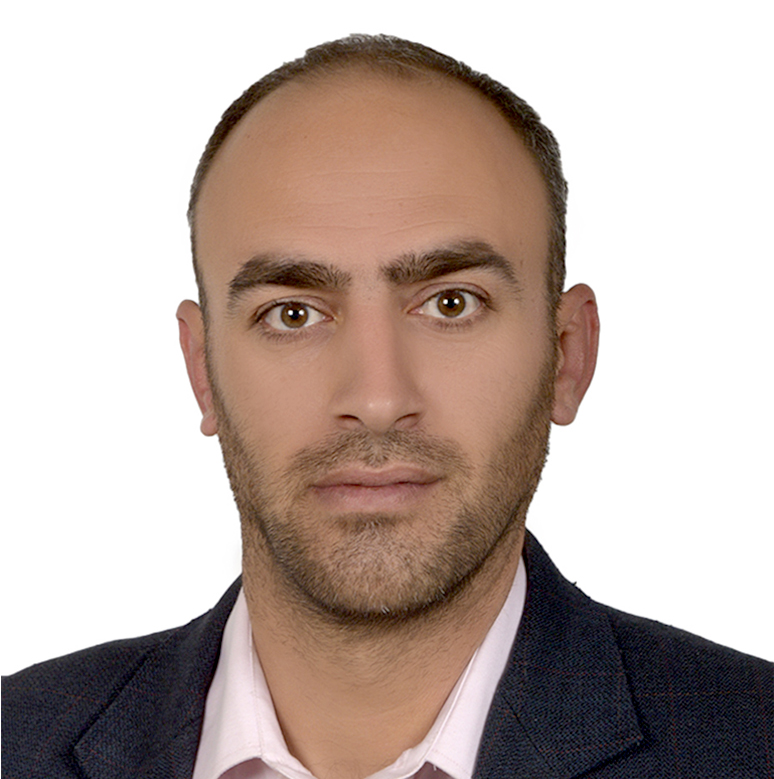
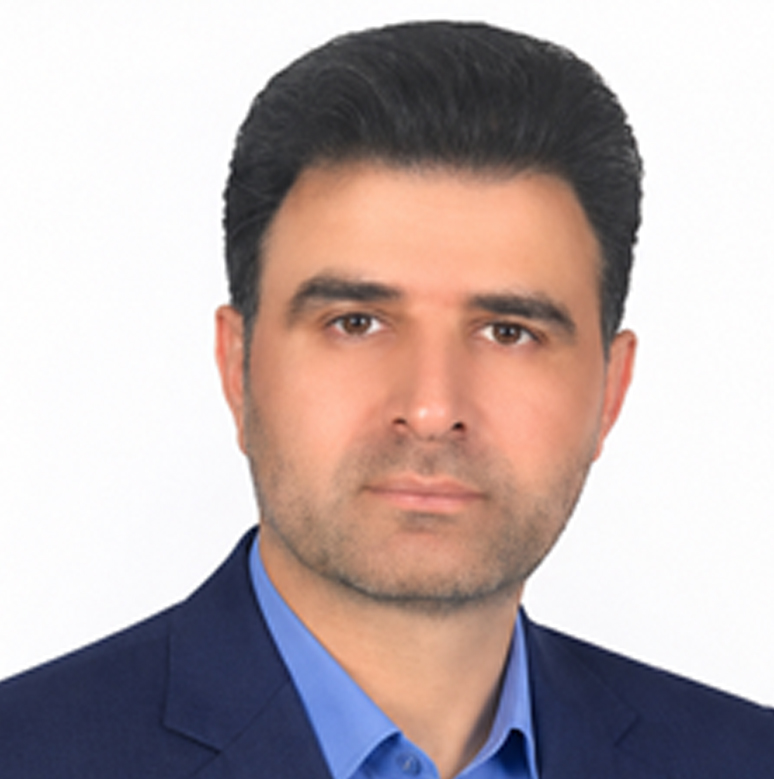
Add files via upload

diff --git a/card2.html b/card2.html
@@ -663,9 +663,9 @@ img.qrcode-img-front[_ngcontent-llw-c127] {
     background-position: center" src="Pic2.jpg">
 
 
-<div _ngcontent-llw-c127="" class="print-content"><label _ngcontent-llw-c127="" style="margin-bottom: 3px;">محمدامین عابدی</label><label _ngcontent-llw-c127="">2291913816</label><label _ngcontent-llw-c127="">1010294185</label><label _ngcontent-llw-c127="">عمران</label><label _ngcontent-llw-c127="">1396/09/15</label><label _ngcontent-llw-c127="">0103093167</label></div><label _ngcontent-llw-c127="" class="back-validity-date">1407/12/29</label><!----><!----></div>
+<div _ngcontent-llw-c127="" class="print-content"><label _ngcontent-llw-c127="" style="margin-bottom: 3px;">محمد صادقی خلیلانی</label><label _ngcontent-llw-c127="">3256467180</label><label _ngcontent-llw-c127="">1010294185</label><label _ngcontent-llw-c127="">عمران</label><label _ngcontent-llw-c127="">1389/09/15</label><label _ngcontent-llw-c127="">0103093167</label></div><label _ngcontent-llw-c127="" class="back-validity-date">1407/12/29</label><!----><!----></div>
 
-<div _ngcontent-llw-c127="" class="print-preview-image preview-back"><img _ngcontent-llw-c127="" src="membership-card-watermark-back.png" style="width: 100%;"><label _ngcontent-llw-c127="" class="back-full-name" style="margin-bottom: 300px;">MOHAMMADAMIN ABEDI</label><label _ngcontent-llw-c127="" class="back-national">2291913816</label><label _ngcontent-llw-c127="" class="back-membership-code">0103093167</label><label _ngcontent-llw-c127="" class="back-license-no">0103093167</label>
+<div _ngcontent-llw-c127="" class="print-preview-image preview-back"><img _ngcontent-llw-c127="" src="membership-card-watermark-back.png" style="width: 100%;"><label _ngcontent-llw-c127="" class="back-full-name" style="margin-bottom: 300px;">Mohammad Sadeghi Khalilani</label><label _ngcontent-llw-c127="" class="back-national">3256467180</label><label _ngcontent-llw-c127="" class="back-membership-code">0103093167</label><label _ngcontent-llw-c127="" class="back-license-no">0103093167</label>
 
 
 <img _ngcontent-llw-c127="" class="qrcode-img-back" src="data2_image_png;base….png">
